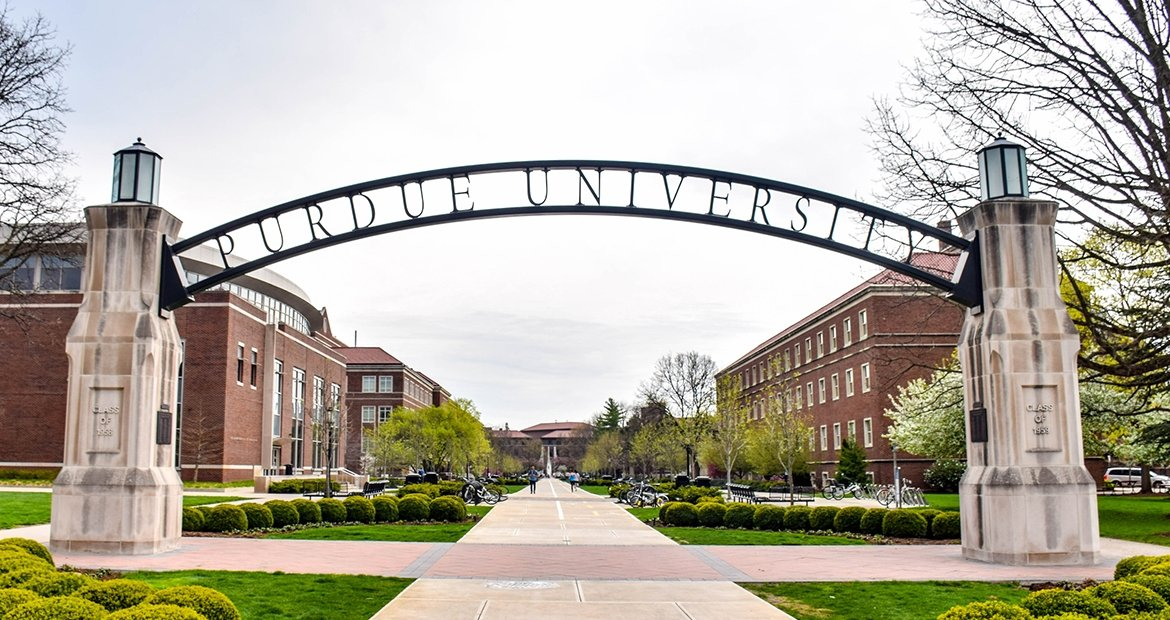
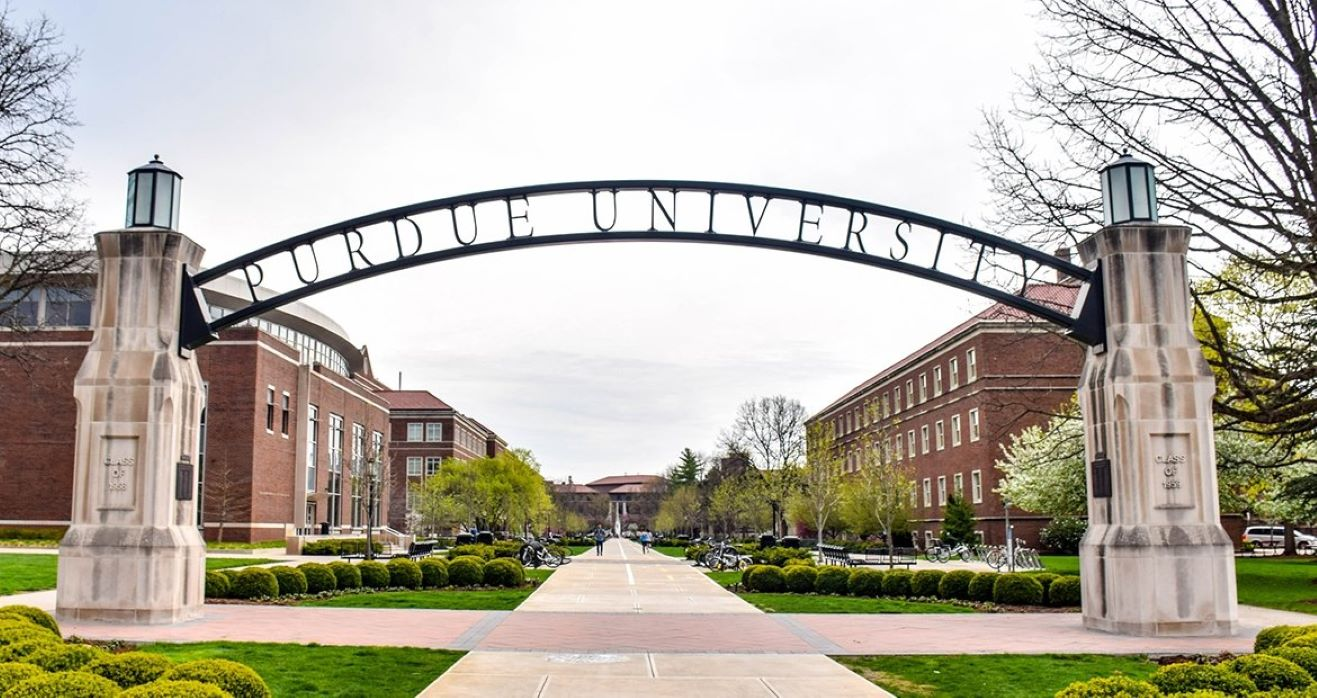
carousel

diff --git a/academics.html b/academics.html
@@ -58,19 +58,19 @@
           </nav>
       </header>
 
-
-    <section id="showcase2">
-        <div id="carouselExampleSlidesOnly" class="carousel slide" data-ride="carousel">
-          <div class="carousel-inner">
-            <div class="carousel-item active">
-              <img class="d-block w-100" src="./img/Purdue_University.jpg" alt="First slide">
-            </div>
-            <div class="carousel-item">
-              <img class="d-block w-100" src="./img/IIT_Guwahati.jpg" alt="Second slide">
-            </div>
+      <div id="carouselExampleSlidesOnly" class="carousel slide" data-ride="carousel">
+        <div class="carousel-inner">
+          <div class="carousel-item active">
+            <section id="showcase">
+                <div class="container">
+                </div>
+            </section>
+          </div>
+          <div class="carousel-item">
+            <img class="d-block w-100" src="./img/IIT_Guwahati.jpg" alt="Second slide">
           </div>
         </div>
-    </section>
+      </div>
 
       <div class="container">
               <section id="general-info">

diff --git a/css/custom.css b/css/custom.css
@@ -105,6 +105,8 @@ header a:hover{
 
 #showcase2{
   min-height:400px;
+  background:url('../img/Purdue_University.jpg') no-repeat;
+  background-position: center;
   text-align:center;
   color:#ffffff;
 }
